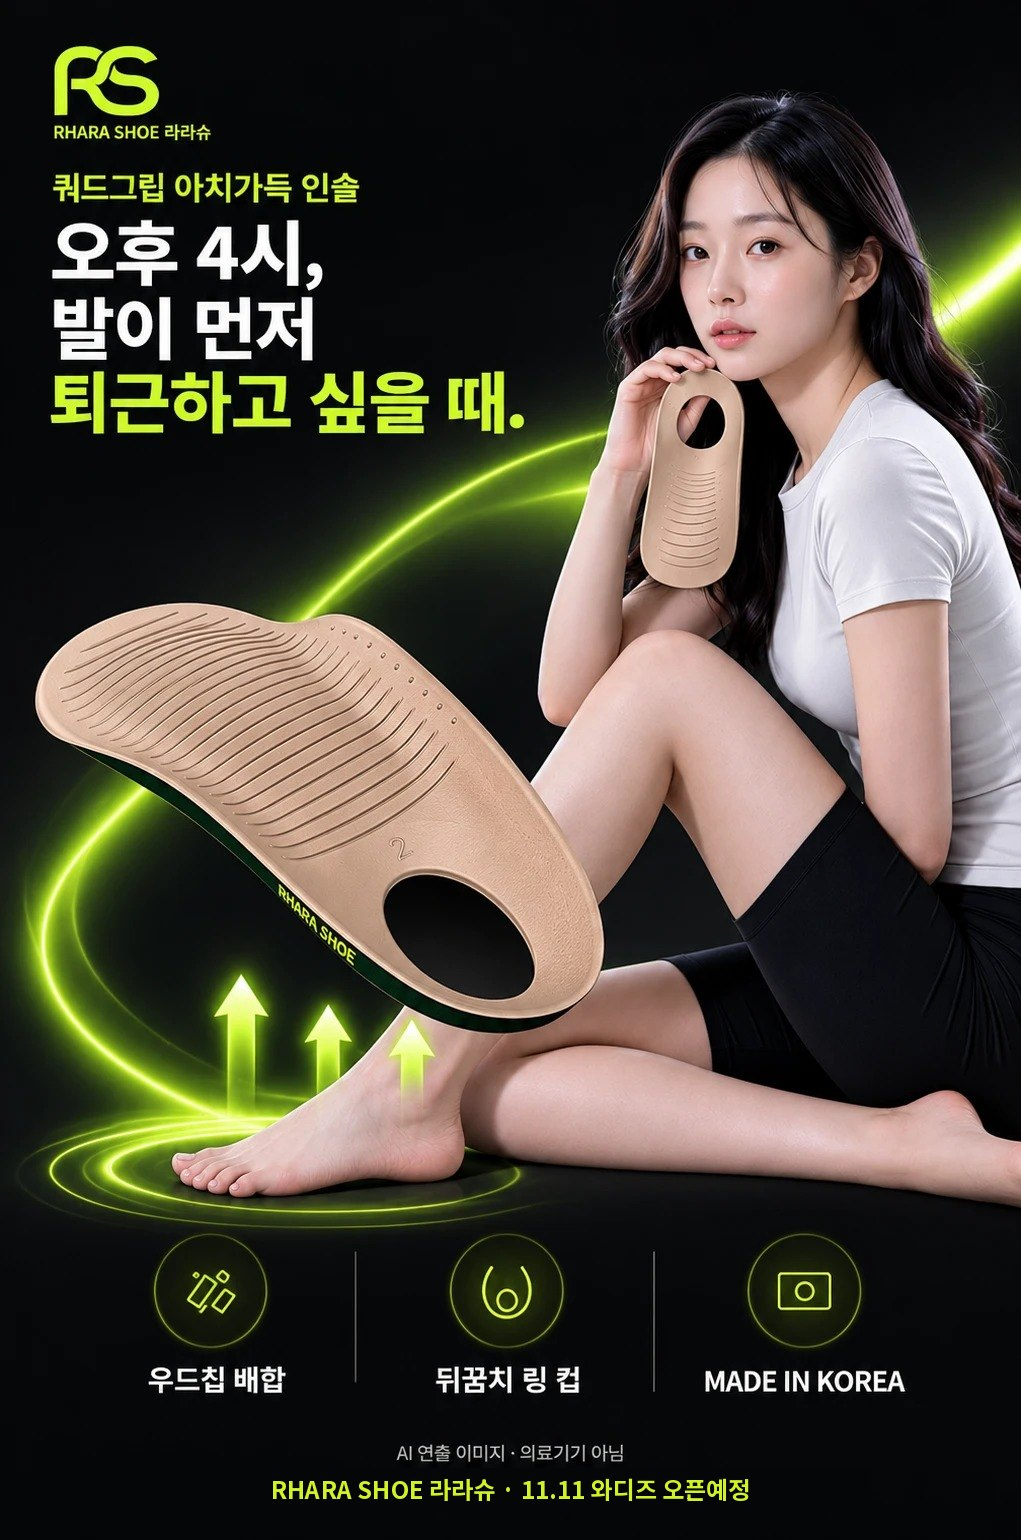
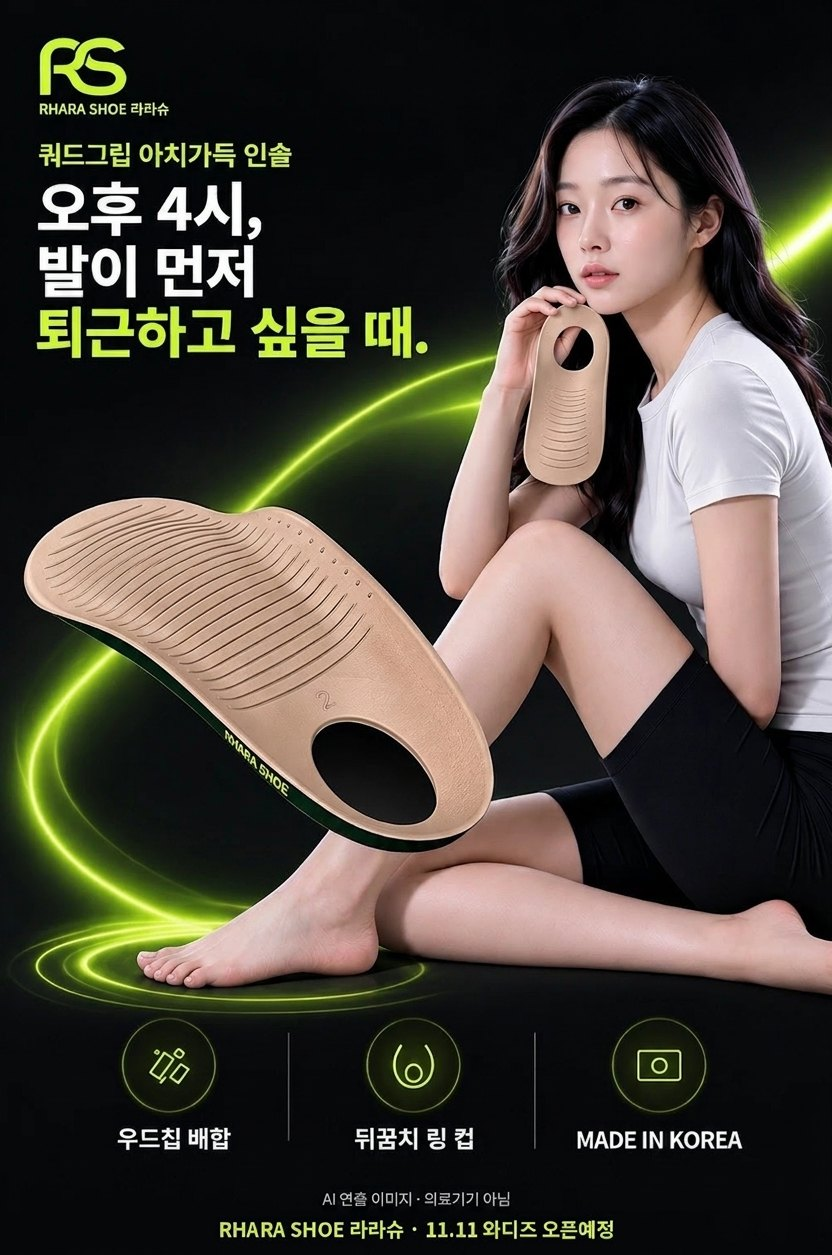
RS: 랜딩 인스타 섹션·감수 반영·업로드 파일 v3
Claude-Session: https://claude.ai/code/session_01WbwBaiEPCZ7zKuMjGg7vqH

diff --git a/launch/rs/landing/index.html b/launch/rs/landing/index.html
@@ -13,7 +13,7 @@
 <meta property="og:description" content="새 신발 말고, 바닥만 바꾸세요. 11.11 와디즈 오픈예정 · 11.26 펀딩 오픈 예정">
 <meta property="og:image" content="https://go.rharashoe.com/img/insole-main.jpg">
 <meta name="twitter:card" content="summary_large_image">
-<script type="application/ld+json">[{"@context": "https://schema.org", "@type": "Organization", "name": "알앤디메이커스 주식회사", "alternateName": "R&D Makers", "url": "https://go.rharashoe.com/", "logo": "https://go.rharashoe.com/img/rs-logo.png", "brand": {"@type": "Brand", "name": "RHARA SHOE", "alternateName": ["라라슈"]}, "sameAs": ["https://instagram.com/rharashoe"], "telephone": "+82-507-1317-2516", "address": {"@type": "PostalAddress", "streetAddress": "국제과학7로 8", "addressLocality": "유성구", "addressRegion": "대전광역시", "addressCountry": "KR"}}, {"@context": "https://schema.org", "@type": "FAQPage", "mainEntity": [{"@type": "Question", "name": "와디즈 알림신청은 무엇인가요?", "acceptedAnswer": {"@type": "Answer", "text": "와디즈 오픈예정 페이지에서 알림신청을 누르면 펀딩이 열릴 때 와디즈가 알려 드립니다. 결제는 없고 언제든 취소할 수 있습니다."}}, {"@type": "Question", "name": "어떤 신발에 쓸 수 있나요?", "acceptedAnswer": {"@type": "Answer", "text": "가지고 계신 운동화나 출근화에 쓰던 깔창 아래 깔아 씁니다. 라라슈 워킹화는 일체형 안창이라 따로 넣지 않습니다."}}, {"@type": "Question", "name": "사이즈는 어떻게 고르나요?", "acceptedAnswer": {"@type": "Answer", "text": "M 15cm, L 17cm 두 가지입니다. 신발 사이즈별 추천표는 와디즈 페이지에서 안내합니다."}}, {"@type": "Question", "name": "의료용 제품인가요?", "acceptedAnswer": {"@type": "Answer", "text": "아닙니다. 의료기기가 아니며 질환의 치료나 교정을 위한 제품이 아닙니다."}}, {"@type": "Question", "name": "박람회 이벤트는 어떻게 참여하나요?", "acceptedAnswer": {"@type": "Answer", "text": "와디즈 알림 신청이나 인스타그램 팔로우 중 하나만 하고 화면을 보여 주시면 칫솔을 드립니다. 여기에 부스 사진을 인스타 피드에 올리시면(본문 맨 앞 [협찬] 표기, 사진에 @rharashoe 태그) 룰렛을 1회 돌려 당첨 상품을 드려요. 하루 준비 수량이 소진되면 그날은 마감됩니다."}}, {"@type": "Question", "name": "피드에 [협찬]을 왜 넣어야 하나요?", "acceptedAnswer": {"@type": "Answer", "text": "경품을 받고 올리는 게시물은 공정거래위원회 추천·보증 심사지침에 따라 경제적 대가를 받았다는 사실을 게시물 첫 부분에 알아보기 쉽게 표시해야 합니다."}}, {"@type": "Question", "name": "워킹화는 언제 나오나요?", "acceptedAnswer": {"@type": "Answer", "text": "11월 25일 라라슈 자사몰에서 오픈합니다. 워킹화 오픈 알림을 신청하시면 오픈 날 가장 먼저 알려 드립니다."}}]}]</script>
+<script type="application/ld+json">[{"@context": "https://schema.org", "@type": "Organization", "name": "알앤디메이커스 주식회사", "alternateName": "R&D Makers", "url": "https://go.rharashoe.com/", "logo": "https://go.rharashoe.com/img/rs-logo.png", "brand": {"@type": "Brand", "name": "RHARA SHOE", "alternateName": ["라라슈"]}, "sameAs": ["https://instagram.com/rharashoe"], "telephone": "+82-507-1317-2516", "address": {"@type": "PostalAddress", "streetAddress": "국제과학7로 8", "addressLocality": "유성구", "addressRegion": "대전광역시", "addressCountry": "KR"}}, {"@context": "https://schema.org", "@type": "FAQPage", "mainEntity": [{"@type": "Question", "name": "와디즈 알림신청은 무엇인가요?", "acceptedAnswer": {"@type": "Answer", "text": "와디즈 오픈예정 페이지에서 알림신청을 누르면 펀딩이 열릴 때 와디즈가 알려 드립니다. 결제는 없고 언제든 취소할 수 있습니다."}}, {"@type": "Question", "name": "어떤 신발에 쓸 수 있나요?", "acceptedAnswer": {"@type": "Answer", "text": "가지고 계신 운동화나 출근화에 쓰던 깔창 아래 깔아 씁니다. 라라슈 워킹화는 일체형 안창이라 따로 넣지 않습니다."}}, {"@type": "Question", "name": "사이즈는 어떻게 고르나요?", "acceptedAnswer": {"@type": "Answer", "text": "M 15cm, L 17cm 두 가지입니다. 신발 사이즈별 추천표는 와디즈 페이지에서 안내합니다."}}, {"@type": "Question", "name": "의료용 제품인가요?", "acceptedAnswer": {"@type": "Answer", "text": "아닙니다. 의료기기가 아니며 질환의 치료나 교정을 위한 제품이 아닙니다."}}, {"@type": "Question", "name": "박람회 이벤트는 어떻게 참여하나요?", "acceptedAnswer": {"@type": "Answer", "text": "와디즈 알림 신청, 또는 인스타그램 @rharashoe 팔로우와 스토리 올리기(첫 줄 [협찬], #라라슈) 중 하나를 하고 화면을 보여 주시면 re.feeel 칫솔을 드립니다. STEP 1을 마친 분이 상품 사진을 인스타 피드에 올리시면(본문 맨 앞 [협찬], @rharashoe #라라슈 #쿼드그립워킹화 #아치가득인솔 태그) 룰렛을 1회 돌려 당첨 상품을 드려요. 하루 준비 수량이 소진되면 그날은 마감됩니다."}}, {"@type": "Question", "name": "피드에 [협찬]을 왜 넣어야 하나요?", "acceptedAnswer": {"@type": "Answer", "text": "경품을 받고 올리는 게시물은 공정거래위원회 추천·보증 심사지침에 따라 경제적 대가를 받았다는 사실을 게시물 첫 부분에 알아보기 쉽게 표시해야 합니다."}}, {"@type": "Question", "name": "워킹화는 언제 나오나요?", "acceptedAnswer": {"@type": "Answer", "text": "11월 25일 라라슈 자사몰에서 오픈합니다. 워킹화 오픈 알림을 신청하시면 오픈 날 가장 먼저 알려 드립니다."}}]}]</script>
 <link rel="icon" href="img/rs-logo.png">
 <link rel="preconnect" href="https://fonts.googleapis.com">
 <link href="https://fonts.googleapis.com/css2?family=Noto+Sans+KR:wght@400;500;700&display=swap" rel="stylesheet">
@@ -106,6 +106,8 @@ h2{font-size:30px;line-height:36px;margin:12px 0 16px}
 .story p.eyebrow{color:inherit}
 #brand{padding-bottom:16px}
 #brand+.story{border-top:0;padding-top:0}
+.igrid{display:grid;grid-template-columns:repeat(3,1fr);gap:4px;margin-top:24px;border-radius:12px;overflow:hidden}
+.igrid img{width:100%;aspect-ratio:3/4;object-fit:cover;display:block}
 .teaser{position:relative;border-radius:16px;overflow:hidden;margin-top:24px}
 .teaser img{width:100%;display:block;filter:brightness(.45) grayscale(.3)}
 .teaser .over{position:absolute;inset:auto 0 0 0;padding:24px}
@@ -146,7 +148,7 @@ footer a{color:#CFCFC8}
     <a class="btn js-wadiz" href="#">와디즈 오픈 알림 받기</a>
     <p class="proof"><span class="dots"><i></i><i></i><i></i><i></i></span><span>알림신청은 무료, 결제 없음 · 펀딩 시작 <span class="js-fund"></span> 예정</span></p>
     <img class="media" src="img/insole-ai-poster.jpg" alt="쿼드그립 아치가득 인솔을 든 모델과 인솔 확대 연출 이미지">
-    <p class="note">AI 연출 이미지 · 실제 제품 사진은 아래 상품 소개에 있습니다 · 의료기기 아님</p>
+    <p class="note">AI 연출 이미지로 색상·로고 등 세부가 실제 제품과 다릅니다 · 실제 제품 사진은 아래 상품 소개에 있습니다 · 의료기기 아님</p>
   </section>
 
   <!-- ② 킨텍스 현장 이벤트 -->
@@ -168,7 +170,7 @@ footer a{color:#CFCFC8}
       <ol class="steps">
         <li><div><b>상품 사진 피드 올리기</b><span>부스에서 찍은 라라슈 상품 사진을 공개 계정 피드에 올려 주세요. 본문 <u>맨 앞에</u> [협찬] 문구를 넣고, 아래 태그를 모두 달아 주세요.</span>
           <div class="tags"><code>[협찬]</code><code>@rharashoe</code><code>#라라슈</code><code>#쿼드그립워킹화</code><code>#아치가득인솔</code></div>
-          <button type="button" class="btn ghost sm js-copy" data-copy="[협찬] 라라슈 부스 룰렛 경품을 받고 올린 게시물입니다. 킨텍스 메가쇼에서 만난 라라슈 @rharashoe #라라슈 #쿼드그립워킹화 #아치가득인솔">본문 문구 복사하기</button></div></li>
+          <button type="button" class="btn ghost sm js-copy" data-copy="[협찬] 라라슈 부스 이벤트(경품 룰렛 참여)로 올린 게시물입니다. 킨텍스 메가쇼에서 만난 라라슈 @rharashoe #라라슈 #쿼드그립워킹화 #아치가득인솔">본문 문구 복사하기</button></div></li>
       </ol>
       <div class="reward">
         <strong>룰렛 경품</strong>
@@ -186,7 +188,7 @@ footer a{color:#CFCFC8}
   </section>
   <section class="rv story">
     <p>하루 7시간, 주방과 매장과 계산대 앞에 서 있는 사람들이 있습니다.<br>퇴근하면 신발부터 벗게 되는 그 발을 위해 라라슈를 시작했습니다.</p>
-    <p>라라슈는 정형외과 전문의 이문홍 원장의 설계 자문을 받아,<br>발이 바닥에 닿는 순서를 기준으로 4점 그립 패드의 위치를 정했습니다.</p>
+    <p>라라슈는 정형외과 전문의 이문홍 원장의 설계 자문을 받아,<br>발이 바닥에 닿는 순서를 기준으로 4점 그립 패드의 위치를 정했습니다.<br><small style="color:var(--mute);font-size:12px">이문홍 원장은 ㈜알앤디메이커스의 제품 설계 자문에 참여하고 자문료를 받았습니다.</small></p>
     <p>작업화처럼 보이지 않게 —<br>출근길에 신고 나와 근무 중에도, 퇴근길에도 그대로 신을 수 있도록 디자인했습니다.</p>
     <p>그립 패드에는 폐타이어 고무와 실크벽지에서 분리한 PVC를 다시 원료로 썼습니다.<br>버려지던 자원이 매일 걷는 길이 되도록.</p>
     <p class="eyebrow" style="margin-top:24px">Made for Standing. RHARA SHOE</p>
@@ -250,6 +252,20 @@ footer a{color:#CFCFC8}
     <p class="note">워킹화는 일체형 안창이라 아치가득 인솔을 따로 넣지 않습니다.<br>이미지에는 연출 장면이 포함될 수 있으며, 실제 색상은 화면과 다를 수 있습니다. 출시 전 샘플 기준으로 사양이 바뀔 수 있습니다.</p>
   </section>
 
+  <!-- 인스타그램 -->
+  <section class="rv" id="insta">
+    <p class="eyebrow"><b>INSTAGRAM</b> · @rharashoe</p>
+    <h2>서서 일하는 하루,<br>레오 사장이 대신 쉬어드립니다</h2>
+    <p class="lead">현장 이야기와 오픈 소식을 인스타그램에서 가장 먼저 전해요.</p>
+    <a class="igrid js-insta" href="#" aria-label="라라슈 인스타그램 @rharashoe 열기">
+      <img src="img/insta-1.jpg" alt="인스타그램 게시물: 서서 일하는 사장님 신발은 4가지만">
+      <img src="img/insta-2.jpg" alt="인스타그램 게시물: 주방에 선 레오 사장 캐릭터">
+      <img src="img/insta-3.jpg" alt="인스타그램 게시물: 주방에서 일하는 레오 사장 캐릭터">
+    </a>
+    <a class="btn ghost js-insta" href="#" style="margin-top:24px">@rharashoe 팔로우하기</a>
+    <p class="note">레오 사장은 AI로 만든 라라슈의 수달 캐릭터입니다.</p>
+  </section>
+
   <!-- ⑥ FAQ -->
   <section class="rv" id="faq">
     <p class="eyebrow"><b>FAQ</b></p>
@@ -259,7 +275,7 @@ footer a{color:#CFCFC8}
     <details><summary>어떤 신발에 쓸 수 있나요?</summary><p>가지고 계신 운동화나 출근화에 쓰던 깔창 아래 깔아 씁니다. 라라슈 워킹화는 일체형 안창이라 따로 넣지 않습니다.</p></details>
     <details><summary>사이즈는 어떻게 고르나요?</summary><p>M 15cm, L 17cm 두 가지입니다. 신발 사이즈별 추천표는 와디즈 페이지에서 안내합니다.</p></details>
     <details><summary>의료용 제품인가요?</summary><p>아닙니다. 의료기기가 아니며 질환의 치료나 교정을 위한 제품이 아닙니다.</p></details>
-    <details><summary>박람회 이벤트는 어떻게 참여하나요?</summary><p>와디즈 알림 신청이나 인스타그램 팔로우 중 하나만 하고 화면을 보여 주시면 칫솔을 드립니다. 여기에 부스 사진을 인스타 피드에 올리시면(본문 맨 앞 [협찬] 표기, 사진에 @rharashoe 태그) 룰렛을 1회 돌려 당첨 상품을 드려요. 하루 준비 수량이 소진되면 그날은 마감됩니다.</p></details>
+    <details><summary>박람회 이벤트는 어떻게 참여하나요?</summary><p>와디즈 알림 신청, 또는 인스타그램 @rharashoe 팔로우와 스토리 올리기(첫 줄 [협찬], #라라슈) 중 하나를 하고 화면을 보여 주시면 re.feeel 칫솔을 드립니다. STEP 1을 마친 분이 상품 사진을 인스타 피드에 올리시면(본문 맨 앞 [협찬], @rharashoe #라라슈 #쿼드그립워킹화 #아치가득인솔 태그) 룰렛을 1회 돌려 당첨 상품을 드려요. 하루 준비 수량이 소진되면 그날은 마감됩니다.</p></details>
     <details><summary>피드에 [협찬]을 왜 넣어야 하나요?</summary><p>경품을 받고 올리는 게시물은 공정거래위원회 추천·보증 심사지침에 따라 경제적 대가를 받았다는 사실을 게시물 첫 부분에 알아보기 쉽게 표시해야 합니다.</p></details>
     <details><summary>워킹화는 언제 나오나요?</summary><p>11월 25일 라라슈 자사몰에서 오픈합니다. 워킹화 오픈 알림을 신청하시면 오픈 날 가장 먼저 알려 드립니다.</p></details>
   </section>

diff --git a/launch/rs/log.md b/launch/rs/log.md
@@ -357,3 +357,4 @@
 - 2026-10-30 대표: STEP2 = STEP1 완료자 + 피드에 상품 사진, @rharashoe #라라슈 #쿼드그립워킹화 #아치가득인솔 (+[협찬] 맨 앞 유지).
 - 2026-10-30 대표: 와디즈 PD 경품 이벤트 승인 완료(감수 Y-04 해소). 부스 번호 다음 주. 랜딩 v3 구조 개편: ① 히어로 ② 박람회 이벤트 ③ 브랜드 소개(스토리 v2 — 원장 문단은 계약·검수 전이라 제외, 브랜드 필름 통합) ④ 상품1 아치가득 인솔(카피 체계 §3, 와디즈 11/26) ⑤ 상품2 워킹화(카피 체계 §2, 자사몰 11/25) ⑥ FAQ ⑦ CTA. 태그라인 단독·영상 단독 섹션 통합. 재감수 필요(브랜드 스토리·워킹화 구조 카피 신규 노출).
 - 2026-10-30 대표: 히어로 인솔 사진을 AI 모델 포스터로 교체(img/insole-ai-poster.jpg). 포스터 하단 '2026.11.11 OPEN'→'11.11 와디즈 오픈예정'으로 정정(원본 design/ai-gen/out/AI연출_인솔_모델포스터_원본.jpg). 실물 사진은 상품01 섹션으로 이동(실물 대조). 원장 계약 승인 완료(대표, 다시 묻지 말 것) → 브랜드 스토리 원장 문단·설계 자문 블록(인용문·사진 없이, 고지문 회사명 포함) 복원. 확인 필요: 포스터 'MADE IN KOREA' 근거(라파 국내 생산 여부)·상승 화살표 연출 감수.
+- 2026-10-30 대표: 인스타그램 섹션 추가(썸네일 3장·팔로우 버튼, 2026.11.11 OPEN 게시물 제외) + 배포 지시. rs-compliance 변경분 재감수: 🔴1(포스터 상승 화살표) → 제미나이로 화살표만 제거해 교체. 🟡 반영: 포스터 캡션(색상·로고 실물과 다름), 원장 문단 바로 아래 자문료 고지, 피드 복사문구 '경품 룰렛 참여', FAQ 조건 일치. 검증: 업로드 압축본(허용 14개 파일) 열기 테스트 — 누락 파일·깨진 이미지·스크립트 오류 0, 금지어는 '의료기기 아님' 부정문만. 남은 확인: MADE IN KOREA 라파 서면, R-10 구글폼. 업로드 파일 deploy/라라슈_랜딩_업로드용_v3.zip — 대표가 넷리파이에 올림(이 환경은 넷리파이 접속 차단).
